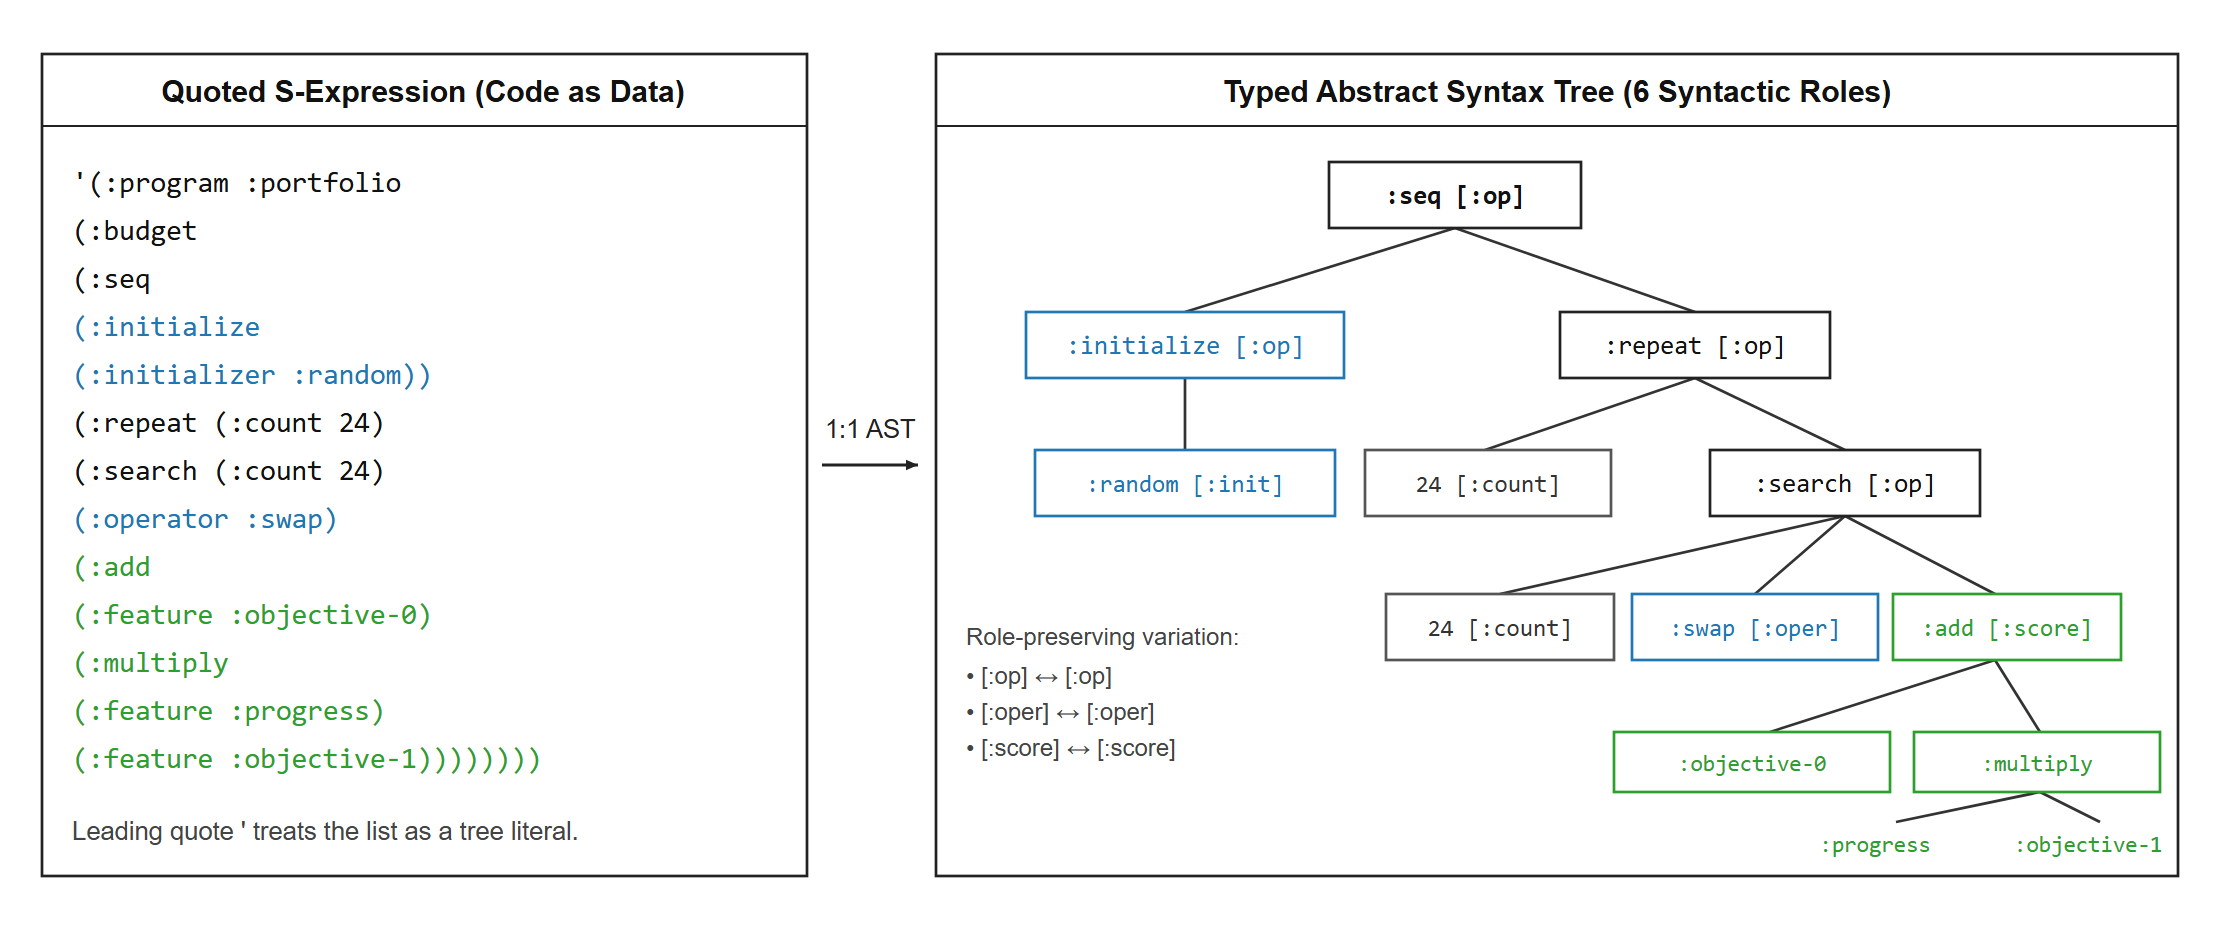
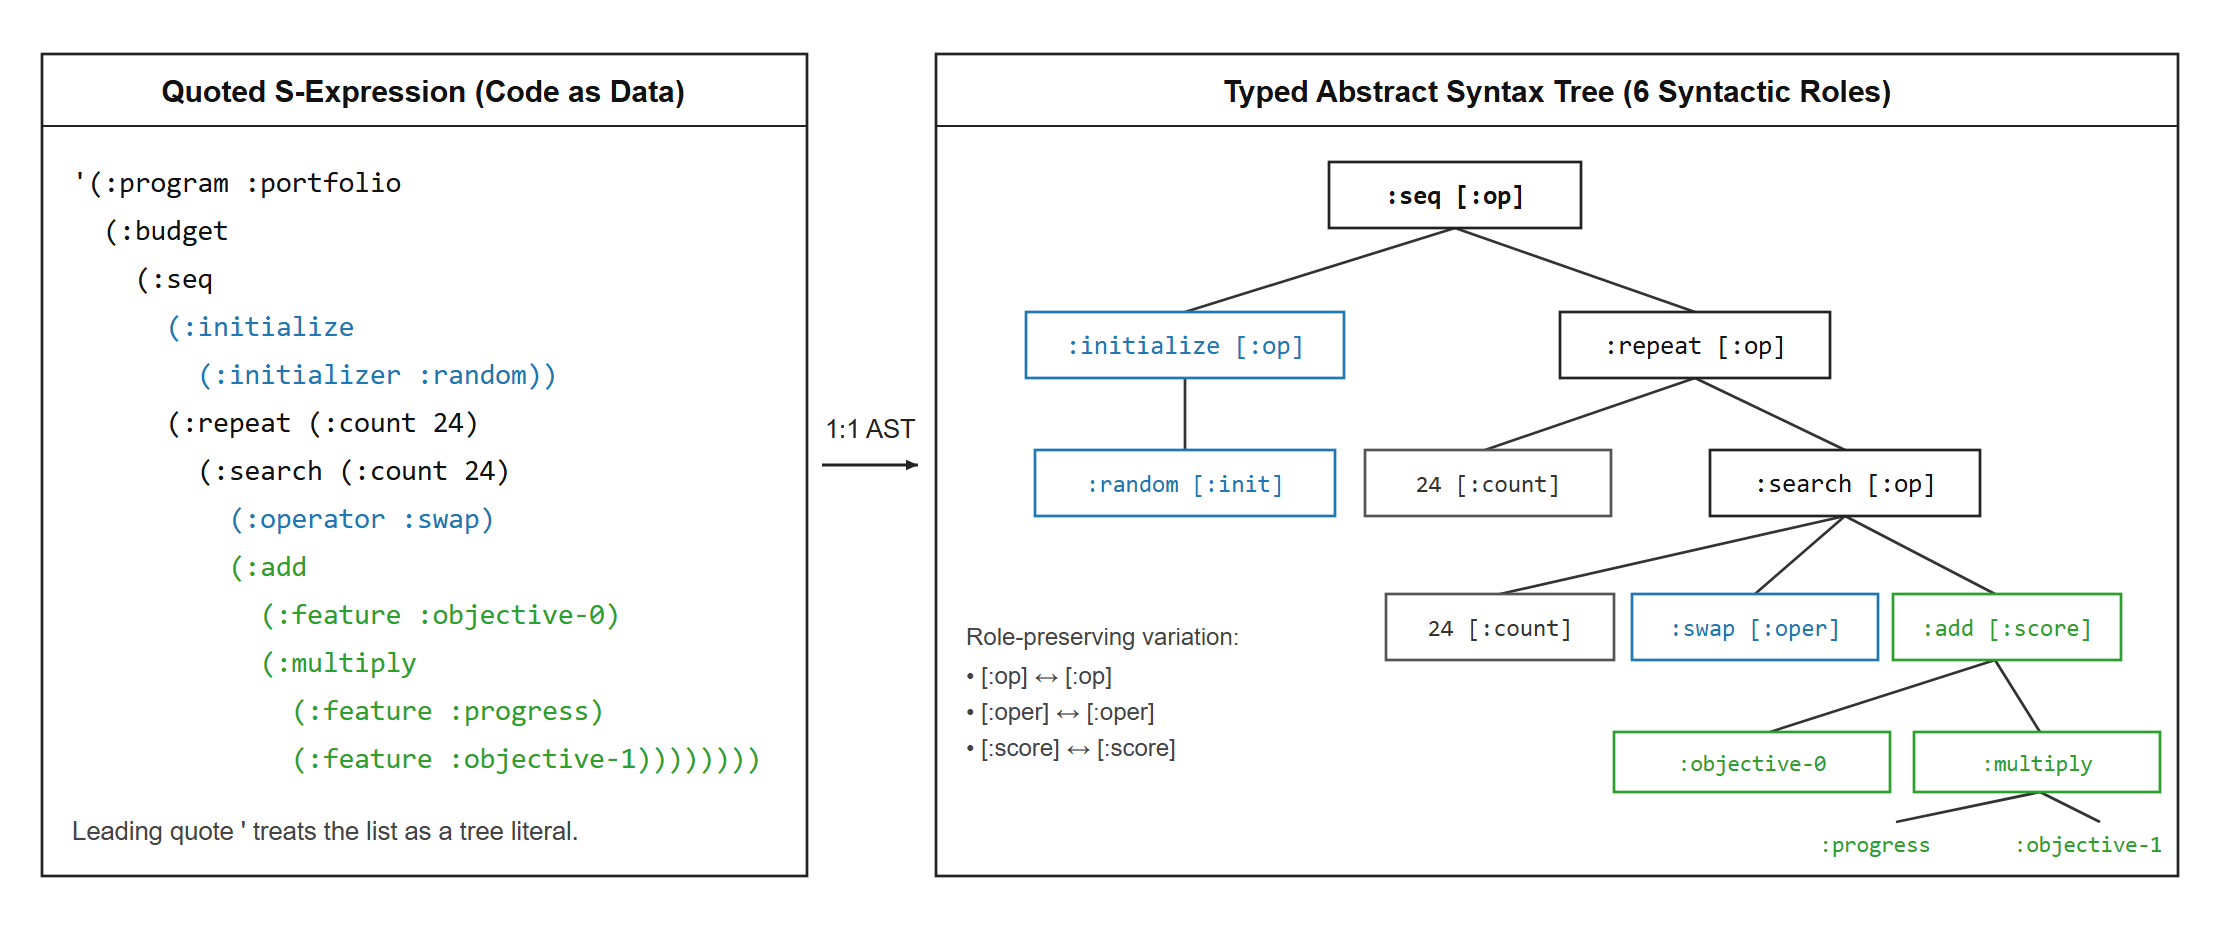
docs,figures: polish ASTI manuscript, 2-space Clojure S-expr indentation, and repo citation

diff --git a/docs/PAPER_DRAFT_ASTI_UNWE.md b/docs/PAPER_DRAFT_ASTI_UNWE.md
@@ -16,7 +16,7 @@ This study investigates multi-objective optimization hyper-heuristics built from
 
 ## Introduction
 
-Automated algorithm design shifts heuristic engineering from manual trial-and-error to systematic program synthesis. Conventional metaheuristics fix the search structure—initialization, moves, and acceptance—leaving only numerical tuning or solution encoding to search. When domain structure changes or conflicting objectives trade off, rigid templates degrade. In earlier studies, we compared discrete portfolio evolution against exact dynamic programming (Penchev & Marchev, 2026b) and evolved single-objective knapsack optimizers via typed symbolic expressions (Penchev & Marchev, 2026a), demonstrating strong combinatorial performance and interpretable tree code.
+Automated algorithm design shifts heuristic engineering from manual trial-and-error to systematic program synthesis. Conventional metaheuristics fix the search structure (initialization, moves, and acceptance), leaving only numerical tuning or solution encoding to search. When domain structure changes or conflicting objectives trade off, rigid templates degrade. In earlier studies, we compared discrete portfolio evolution against exact dynamic programming (Penchev & Marchev, 2026b) and evolved single-objective knapsack optimizers via typed symbolic expressions (Penchev & Marchev, 2026a), demonstrating strong combinatorial performance and interpretable tree code.
 
 However, our prior typed S-expression study (Penchev & Marchev, 2026a) had key limitations: asset costs were independent, a preset `return-per-cost` heuristic supplied most quality, subtree crossover was absent, and no equal-budget random grammar control existed. Four research questions follow: (1) Can typed S-expression evolution synthesize multi-objective hyper-heuristics without preset greedy rules? (2) Does one shared framework generalize across historical equities and scheduling? (3) What value do crossover and selection add beyond random grammar search and formula-only evolution? (4) How do evolved programs compare with tuned conventional optimizers in hypervolume, speed, and domain quality?
 
@@ -56,7 +56,7 @@ Source: Authors' own synthesis based on the cited literature.
 
 ### Research Gap Addressed
 
-Four gaps motivate this study. First, multi-objective scheduling GP hyper-heuristics (Zaki et al., 2024; Sun et al., 2024) evolve priority rules inside fixed simulators, and modular MOEA tools (Bezerra et al., 2016) tune fixed templates; neither co-evolves complete control flow and scalarization across both finance and scheduling. Second, LLM–evolutionary systems (Romera-Paredes et al., 2024; Liu et al., 2024) conflate pretrained priors with evolutionary discovery, underscoring Dick and Whigham's (2022) call for equal-budget random-grammar baselines. Third, recent cardinality-constrained portfolio methods (Kobayashi et al., 2023; Lapucci & Mansueto, 2024) build domain-specific mathematical solvers rather than transferable symbolic trees. Fourth, our earlier knapsack study (Penchev & Marchev, 2026a) relied on a preset greedy initializer and omitted crossover and random-DSL controls. We close this gap under strict equal-budget accounting on frozen public benchmarks.
+Four gaps motivate this study. First, multi-objective scheduling GP hyper-heuristics (Zaki et al., 2024; Sun et al., 2024) evolve priority rules inside fixed simulators, and modular MOEA tools (Bezerra et al., 2016) tune fixed templates; neither co-evolves complete control flow and scalarization across both finance and scheduling. Second, LLM-evolutionary systems (Romera-Paredes et al., 2024; Liu et al., 2024) conflate pretrained priors with evolutionary discovery, underscoring Dick and Whigham's (2022) call for equal-budget random-grammar baselines. Third, recent cardinality-constrained portfolio methods (Kobayashi et al., 2023; Lapucci & Mansueto, 2024) build domain-specific mathematical solvers rather than transferable symbolic trees. Fourth, our earlier knapsack study (Penchev & Marchev, 2026a) relied on a preset greedy initializer and omitted crossover and random-DSL controls. We close this gap under strict equal-budget accounting on frozen public benchmarks.
 
 ---
 
@@ -92,9 +92,9 @@ Figure 3 shows representative discrete Pareto fronts as orthogonal hypervolume s
 Source: Authors' own experimental runs on frozen benchmark instances.  
 Figure 3: Representative non-dominated Pareto fronts on real NASDAQ portfolio selection ($N=15, K=5, T=90$) and OR-Library `wt40` scheduling ($J=40$ jobs)
 
-### Experimental Protocol, Ethics, and Originality Statement
+### Experimental Protocol, Ethics, and Reproducibility Statement
 
-Across 30 outer seeds (`0..29`), each search arm receives 256 outer program assessments per seed (selecting one top validation program for single-shot held-out testing; Table 2). We compare Full GP (`A1: :gp-mixed`), Mutation-Only GP (`A2: :gp-mutation-only`), Equal-Budget Random DSL (`A3: :random-dsl`), Formula-Only Evolution (`A4: :formula-only`), and Configured Conventional Baselines (`A5: :configured-conventional`, validation-tuned across NSGA-II, Pareto Local Search, and Multi-Start Restart). Four paired hypotheses (**H1**: `A1` vs. `A3`; **H2**: `A1` vs. `A4`; **H3**: `A1` vs. `A2`; **H4**: `A1` vs. `A5`) use 10,000-resample paired bootstrap confidence intervals, Holm–Bonferroni correction ($\alpha = 0.05$), and $\Delta_{\mathrm{prac}} = 0.01$.
+Across 30 outer seeds (`0..29`), each search arm receives 256 outer program assessments per seed (selecting one top validation program for single-shot held-out testing; Table 2). We compare Full GP (`A1: :gp-mixed`), Mutation-Only GP (`A2: :gp-mutation-only`), Equal-Budget Random DSL (`A3: :random-dsl`), Formula-Only Evolution (`A4: :formula-only`), and Configured Conventional Baselines (`A5: :configured-conventional`, validation-tuned across NSGA-II, Pareto Local Search, and Multi-Start Restart). Four paired hypotheses (**H1**: `A1` vs. `A3`; **H2**: `A1` vs. `A4`; **H3**: `A1` vs. `A2`; **H4**: `A1` vs. `A5`) use 10,000-resample paired bootstrap confidence intervals, Holm-Bonferroni correction ($\alpha = 0.05$), and $\Delta_{\mathrm{prac}} = 0.01$. All Clojure source code, test suites, configuration files, and the deterministic NASDAQ-50 data reconstruction script are publicly archived at https://github.com/npenchev88/typed-sexpr-hyperheuristics.
 
 **Ethics Approval and Originality Statement.** This study uses only public historical equity series (NASDAQ-50) and the public OR-Library `wt40` benchmark; no human subjects, personal data, or animal experiments are involved, so ethics board approval is not applicable. All work is original, properly cited under APA 7th guidelines, free of plagiarism or unverified AI fabrication, and not submitted elsewhere.
 
@@ -133,7 +133,7 @@ Table 3: Thirty-seed test hypervolume, runtime, and structural summary (`budget-
 | `A4: :formula-only` (`v2`) | $0.53829 \pm 0.00054$ | $0.53838$ (0.5374–0.5391) | $0.54650$ | $3.7$ | $649.3$ | $2213.3 \pm 394.1$ | $160.9$ | $14.8$ | $19/30$ |
 | `A5: :configured-conv.` | $0.52751 \pm 0.00212$ | $0.52786$ (0.5237–0.5301) | $0.54321$ | **$7.4$** | $632.8$ | $2326.8 \pm 408.3$ | $190.1$ | $6.4$ | 19 NSGA-II, 11 PLS |
 
-Source: Authors' 30-seed confirmatory experiments (`data/nasdaq50_2012_2026.edn` and `data/orlib_wt40.txt`).
+Source: Authors' 30-seed experiments on NASDAQ-50 equities and OR-Library wt40 (bold marks best per column).
 
 On `wt40`, `:gp-mixed` (`0.53974`) beats `:configured-conventional` (`0.52751`) by `+0.01222` HV across 28/30 seeds and exceeds `:formula-only` (`0.53829`). On NASDAQ-50, `:gp-mixed` outperforms `:configured-conventional` in 12/30 seeds (`0.72975` vs. `0.73440`), staying inside the `±0.01` equivalence band.
 
@@ -164,7 +164,7 @@ Table 4: Concrete domain-level solution quality averaged across 24 held-out test
 | `A4: :formula-only` (`v2`) | 779.6 ± 2.6 | 9,903.2 ± 71.2 | 785.8 / 9,957.0 | 3.7 |
 | `A5: :configured-conv.` | 794.9 ± 2.0 | 10,173.7 ± 49.3 | 828.7 / 10,410.1 | **7.4** |
 
-Source: Authors' held-out test evaluations (`2016–2025` NASDAQ-50 quarters and `wt40`).
+Source: Authors' held-out test evaluations on 2016-2025 NASDAQ-50 quarters and OR-Library wt40 (bold marks best per column).
 
 ### Hypothesis Tests and Prior Ablation
 
@@ -206,7 +206,18 @@ Figure 7: Outer meta-evolution training trajectories (a) and structural operator
 
 Homoiconicity renders the discovered algorithms transparently readable. On NASDAQ-50, the median `:gp-mixed` program (Seed 28, test HV `0.73259`, 19 nodes) runs 32 `:restart` exploration steps before 24 repetitions of 24-proposal `:swap` local search guided by a progress-annealed scalarization $\mathrm{objective}_0 + \mathrm{progress}\cdot \mathrm{objective}_1$:
 
-`'(:program :portfolio (:budget (:seq (:search (:count 32) (:operator :restart) (:add (:feature :objective-0) (:constant -2.0))) (:repeat (:count 24) (:search (:count 24) (:operator :swap) (:add (:feature :objective-0) (:multiply (:feature :progress) (:feature :objective-1))))))))`
+```clojure
+'(:program :portfolio
+  (:budget
+    (:seq
+      (:search (:count 32) (:operator :restart)
+        (:add (:feature :objective-0) (:constant -2.0)))
+      (:repeat (:count 24)
+        (:search (:count 24)
+          (:operator :swap)
+          (:add (:feature :objective-0)
+            (:multiply (:feature :progress) (:feature :objective-1))))))))
+```
 
 On `wt40` scheduling, the median `:gp-mixed` program (Seed 21, test HV `0.54164`, 17 nodes) discovers the exact same annealing formula paired with nested `:insert` local search, whereas the best Seed 0 program (test HV `0.54334`, 35 nodes) pairs SPT (`:first`) initialization with `:swap` and `:insert` phases. Critically, these empirical findings remain bounded by two design limits: under a 256-program outer budget and strong `v2` prior, full GP shows only a minor edge (`+0.00190`) over equal-budget random DSL sampling (**H1**), and trajectory-based DSL primitives produce slightly narrower portfolio fronts (`14.9` vs. `16.9` points) than population-based NSGA-II.
 
@@ -220,11 +231,11 @@ Addressing our four research questions, homoiconic six-role typed S-expressions 
 
 ## Notes
 
-Author academic affiliations and ORCID identifiers appear in Footnotes 1 and 2 on page 1; methodological provenance notes regarding frozen dataset checksums and Clojure implementation details appear in Footnote 3.
+Author academic affiliations and ORCID identifiers appear in Footnotes 1 and 2 on page 1; repository access and data provenance notes appear in Footnote 3.
 
-1. *[Academic title, scientific degree], Faculty of Economics and Business Administration, Sofia University "St. Kliment Ohridski", Sofia, Bulgaria, ORCID: 0009-0000-8955-2474.*
-2. *[Academic title, scientific degree], Department of Management, University of National and World Economy (UNWE), and Faculty of Economics and Business Administration, Sofia University "St. Kliment Ohridski", Sofia, Bulgaria, ORCID: 0000-0002-5090-3123.*
-3. *All NASDAQ-50 return panels (`data/nasdaq50_2012_2026.edn`), OR-Library `wt40` scheduling instances (`data/orlib_wt40.txt`), and 30-seed Clojure confirmatory logs (`docs/evidence/g8-thirty-replications-results.edn`) are archived as deterministic fixed-seed artifacts.*
+1. *Faculty of Economics and Business Administration, Sofia University "St. Kliment Ohridski", Sofia, Bulgaria, ORCID: 0009-0000-8955-2474.*
+2. *Department of Management, University of National and World Economy (UNWE), and Faculty of Economics and Business Administration, Sofia University "St. Kliment Ohridski", Sofia, Bulgaria, ORCID: 0000-0002-5090-3123.*
+3. *Source code, experiment configurations, 30-seed replication logs, and the Yahoo Finance NASDAQ-50 dataset reconstruction script are available at https://github.com/npenchev88/typed-sexpr-hyperheuristics alongside the public OR-Library wt40 benchmark.*
 
 ---
 
